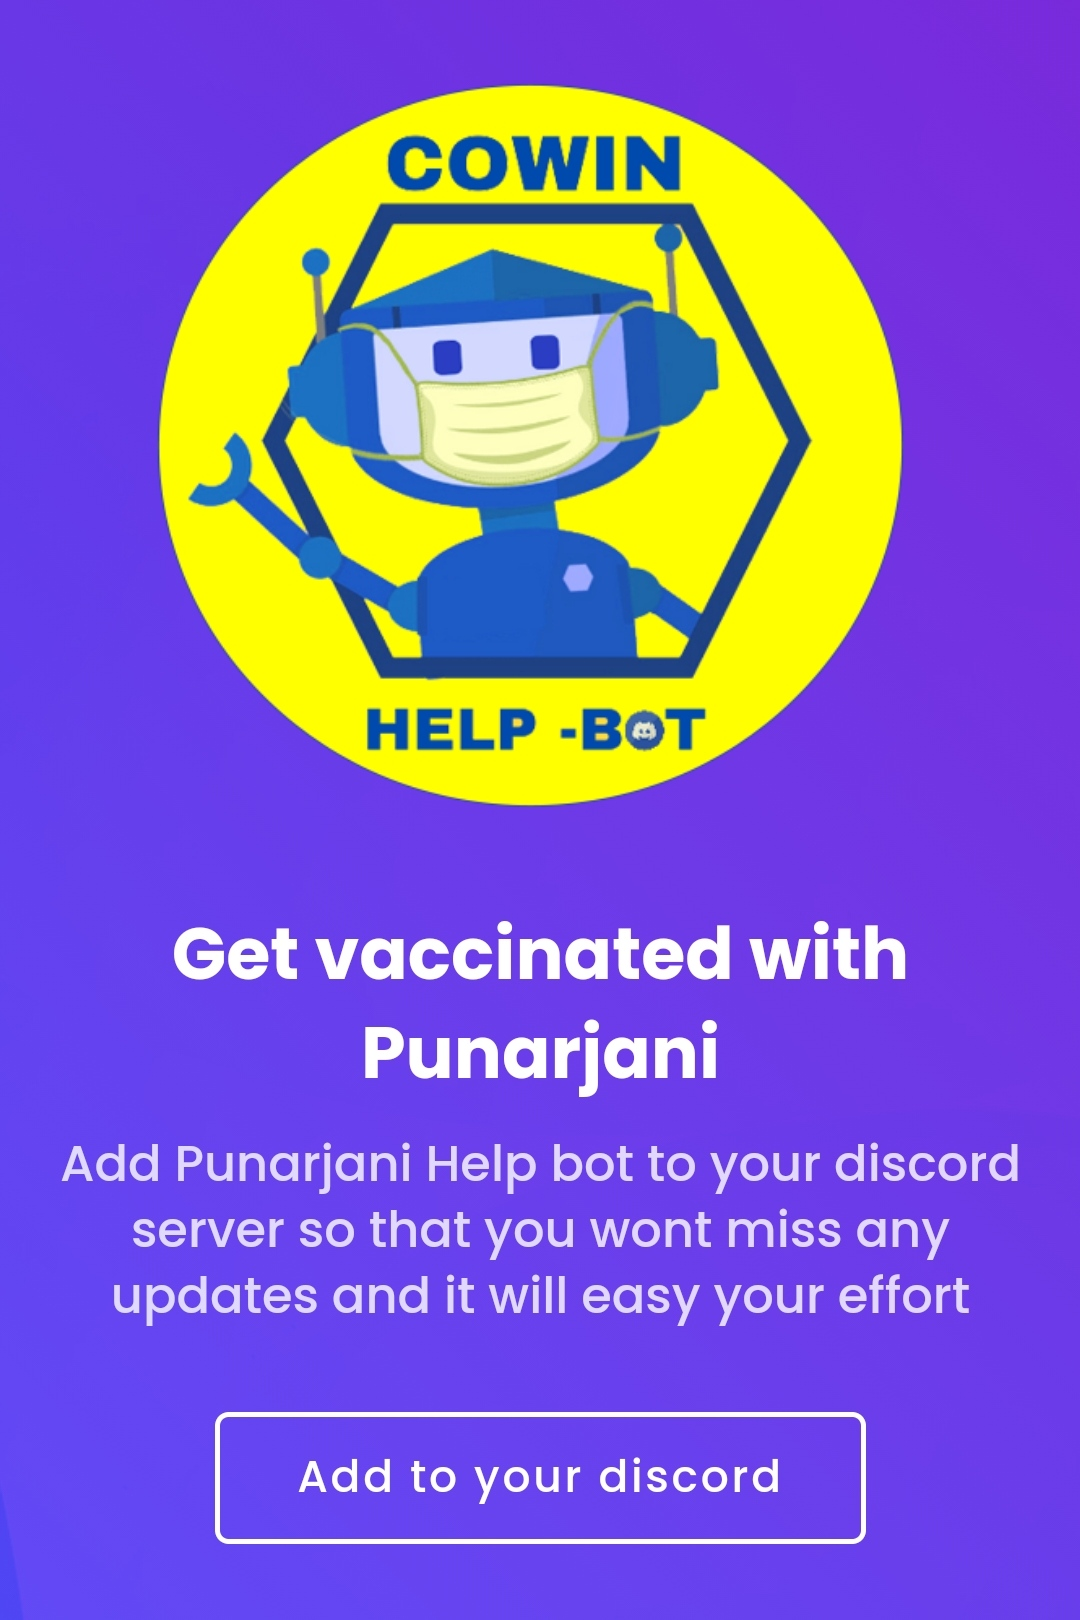
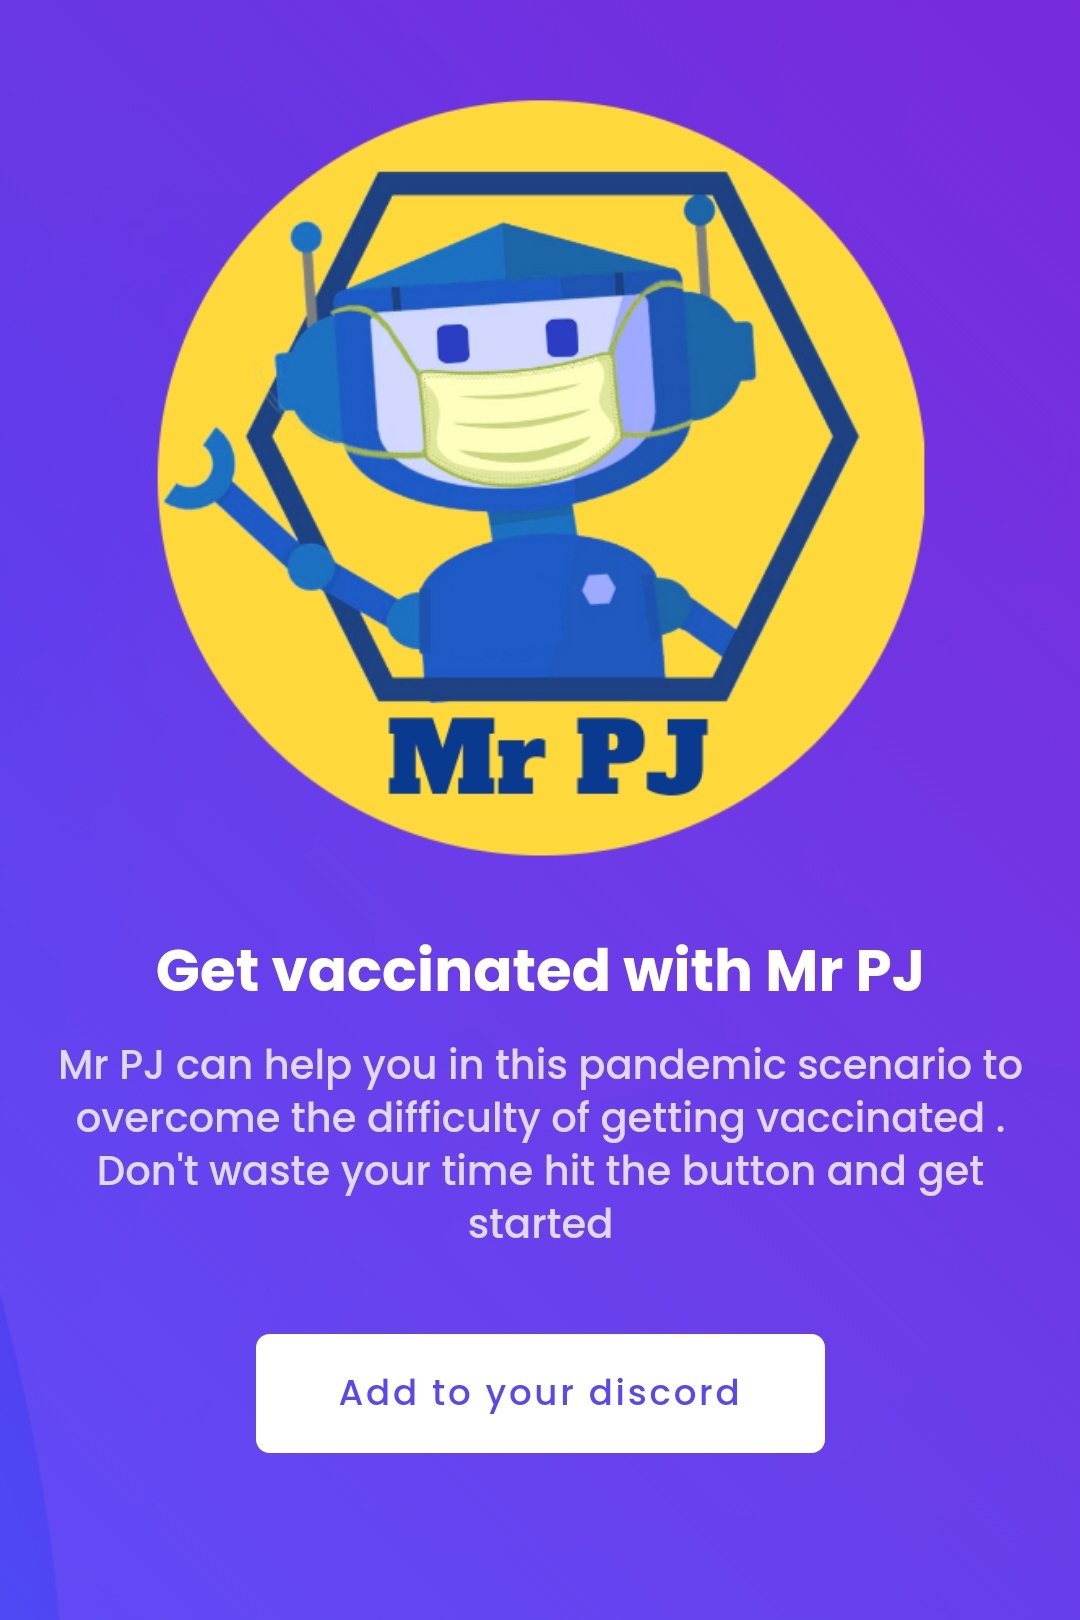
edited the working section added images

diff --git a/docs/index.html b/docs/index.html
@@ -63,7 +63,8 @@
       <div class="row justify-content-center">
         <div class="col-xl-5 col-lg-6 pt-3 pt-lg-0 order-2 order-lg-1 d-flex flex-column justify-content-center">
           <h1>Get vaccinated with Mr PJ</h1>
-          <h2>Mr PJ can help you in this pandemic scenario to  overcome the difficulty of getting vaccinated . Don't waste your time hit the button and get started  </h2>
+          <h2>Mr PJ is here to assist you in this pandemic scenario to ease your vaccination process .
+            What are you waiting for ! Without any further delay click the button and get started </h2>
           <div><a href="https://discord.com/oauth2/authorize?client_id=843422427185807380&scope=bot&permissions=445504" class="btn-get-started scrollto">Add to your discord</a></div>
         </div>
         <div class="col-xl-4 col-lg-6 order-1 order-lg-2 hero-img" data-aos="zoom-in" data-aos-delay="150">
@@ -86,11 +87,12 @@
           <h2>About</h2>
       
         </div>
-        <p> This ia miniature project - 'PUNARJANI' done a a part of  'work from home' , an initiative led by Tinkerhub.  The main aim of this program is
-           to minimize the effort on finding  available vaccination centers , slots when want register for vaccination.  Mr PJ ,the bot runs on discord platform.
-           This is a user friendly bot which act as a assistant of covid vaccination  system. This is an open source program which means one can contribute more features or 
-          build new versions of the same. We believe that everyone must get equal opportunity and equal care when it comes to critical sectors like health and education. We
-           may not be able to solve the vaccine shortage but we can definitely be part of the solution.  </p>
+        <p style="font-size:25px; color: rgb(19, 19, 114);"> This is a miniature project - 'PUNARJANI' done as a part of 'Work From Home' , an initiative led by <a href="https://tinkerhub.org/">Tinkerhub. </a>
+          The main aim of this program is to minimize the effort on finding available vaccination centers , slots when one
+           register for vaccination. Mr PJ ,the bot runs on discord platform. This is a user friendly bot which acts as an 
+           assistant of covid vaccination system. This is an open source program which means one can contribute more features or
+            build new versions of the same. We believe that everyone must get equal opportunity and equal care when it comes to 
+            critical sectors like health and education. We may not be able to solve the vaccine shortage but we can definitely be part of the solution. </p>
         <div class="row">
          <p></p>
          
@@ -171,7 +173,7 @@
                 <i class="bx bx-user"></i>
               </div>
               <h4><a href="">Create a profile</a></h4>
-              <p>You can create your profile on Punarjani database  then only you  you get hourly notification you can edit your profile any time </p>
+              <p>Creating your profile on Punarjani database allows you to get hourly notification and you can edit your profile any time. </p>
             </div>
           </div>
 
@@ -306,7 +308,7 @@
               <li data-filter=".filter-help">!help</li>
               <li data-filter=".filter-register">!register</li>
               <li data-filter=".filter-edit">!edit</li>
-              <li data-filter=".filter-">!slots</li>
+              <li data-filter=".filter-slots">!slots</li>
               <li data-filter=".filter-profile">!profile</li>
               <li data-filter=".filter-info">!info</li>
              
@@ -318,20 +320,97 @@
 
           <div class="col-lg-4 col-md-6 portfolio-item filter-help">
             <div class="portfolio-wrap">
-              <img src="assets/img/Working/help/phone.gif" class="img-fluid" alt="">
+              <img src="assets/img/Working/help/help.gif" class="img-fluid" alt="">
              <div style="padding-top: 20px;"> <h2 style="text-align: center;">!help</h2> </div>
+          
+            </div>
+          </div>
+
+          <div class="col-lg-4 col-md-6 portfolio-item filter-help">
+            <div style="width: 140% ;">
+              <img src="assets/img/Working/help/help.png" class="img-fluid" alt="">
+            
           
             </div>
           </div>
 
           <div class="col-lg-4 col-md-6 portfolio-item filter-edit">
             <div class="portfolio-wrap">
-              <img src="assets/img/Working/help/phone.gif" class="img-fluid" alt="">
-             <div style="padding-top: 20px;"> <h2 style="text-align: center;">!help</h2> </div>
+              <img src="assets/img/Working/edit/edit.gif" class="img-fluid" alt="">
+             <div style="padding-top: 20px;"> <h2 style="text-align: center;">!edit</h2> </div>
+          
+          </div>
+          </div>
+          
+
+          <div class="col-lg-4 col-md-6 portfolio-item filter-edit">
+            <div class="portfolio-wrap">
+              <img src="assets/img/Working/edit/edit.jpg" class="img-fluid" alt="">
+          
+          
+           </div>
+
+          </div>
+          <div class="col-lg-4 col-md-6 portfolio-item filter-info">
+            <div class="portfolio-wrap">
+              <img src="assets/img/Working/info/info.gif" class="img-fluid" alt="">
+              <div style="padding-top: 20px;"> <h2 style="text-align: center;">!info</h2> </div>
+          
+           </div>
+          </div>
+          <div class="col-lg-4 col-md-6 portfolio-item filter-info">
+            <div class="portfolio-wrap">
+              <img src="assets/img/Working/info/info.png" class="img-fluid" alt="">
+           
           
             </div>
           </div>
 
+          <div class="col-lg-4 col-md-6 portfolio-item filter-profile">
+            <div class="portfolio-wrap">
+              <img src="assets/img/Working/profile/profile.gif" class="img-fluid" alt="">
+             <div style="padding-top: 20px;"> <h2 style="text-align: center;">!profile</h2> </div>
+          
+            </div>
+          </div>
+          <div class="col-lg-4 col-md-6 portfolio-item filter-profile">
+            <div class="portfolio-wrap">
+              <img src="assets/img/Working/profile/profile.jpg" class="img-fluid" alt="">
+            
+          
+            </div>
+          </div>
+
+          <div class="col-lg-4 col-md-6 portfolio-item filter-register">
+            <div class="portfolio-wrap">
+              <img src="assets/img/Working/register/register.gif" class="img-fluid" alt="">
+             <div style="padding-top: 20px;"> <h2 style="text-align: center;">!register</h2> </div>
+          
+            </div>
+          </div>
+          <div class="col-lg-4 col-md-6 portfolio-item filter-register">
+            <div class="portfolio-wrap">
+              <img src="assets/img/Working/register/register.jpg" class="img-fluid" alt="">
+           
+          
+            </div>
+          </div>
+
+
+          <div class="col-lg-4 col-md-6 portfolio-item filter-slots">
+            <div class="portfolio-wrap">
+              <img src="assets/img/Working/slots/slots.gif" class="img-fluid" alt="">
+             <div style="padding-top: 20px;"> <h2 style="text-align: center;">!slots</h2> </div>
+          
+            </div>
+          </div>
+          <div class="col-lg-4 col-md-6 portfolio-item filter-slots">
+            <div class="portfolio-wrap">
+              <img src="assets/img/Working/slots/slots.jpg" class="img-fluid" alt="">
+            
+          
+            </div>
+          </div>
 
         </div>
 
